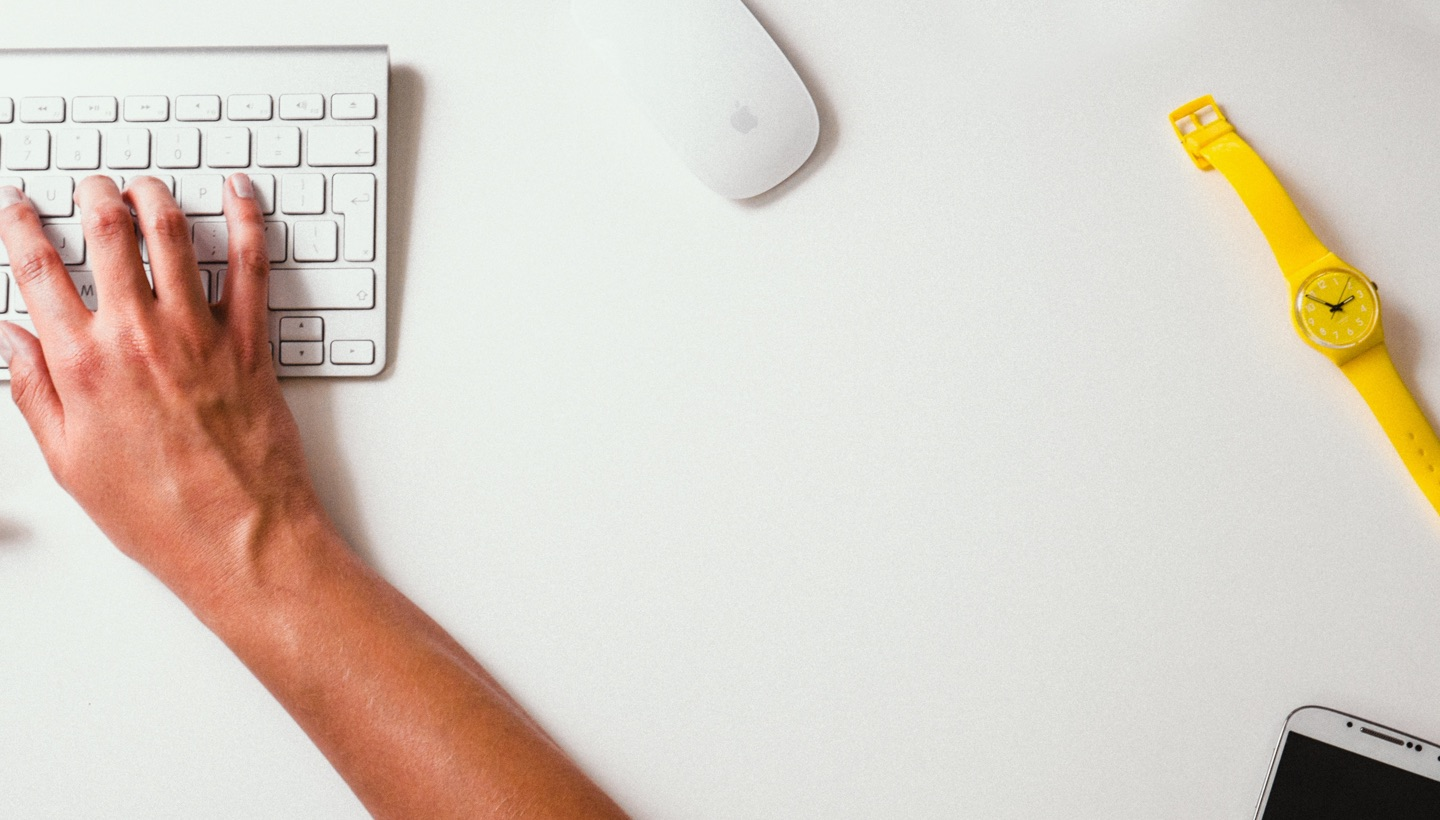
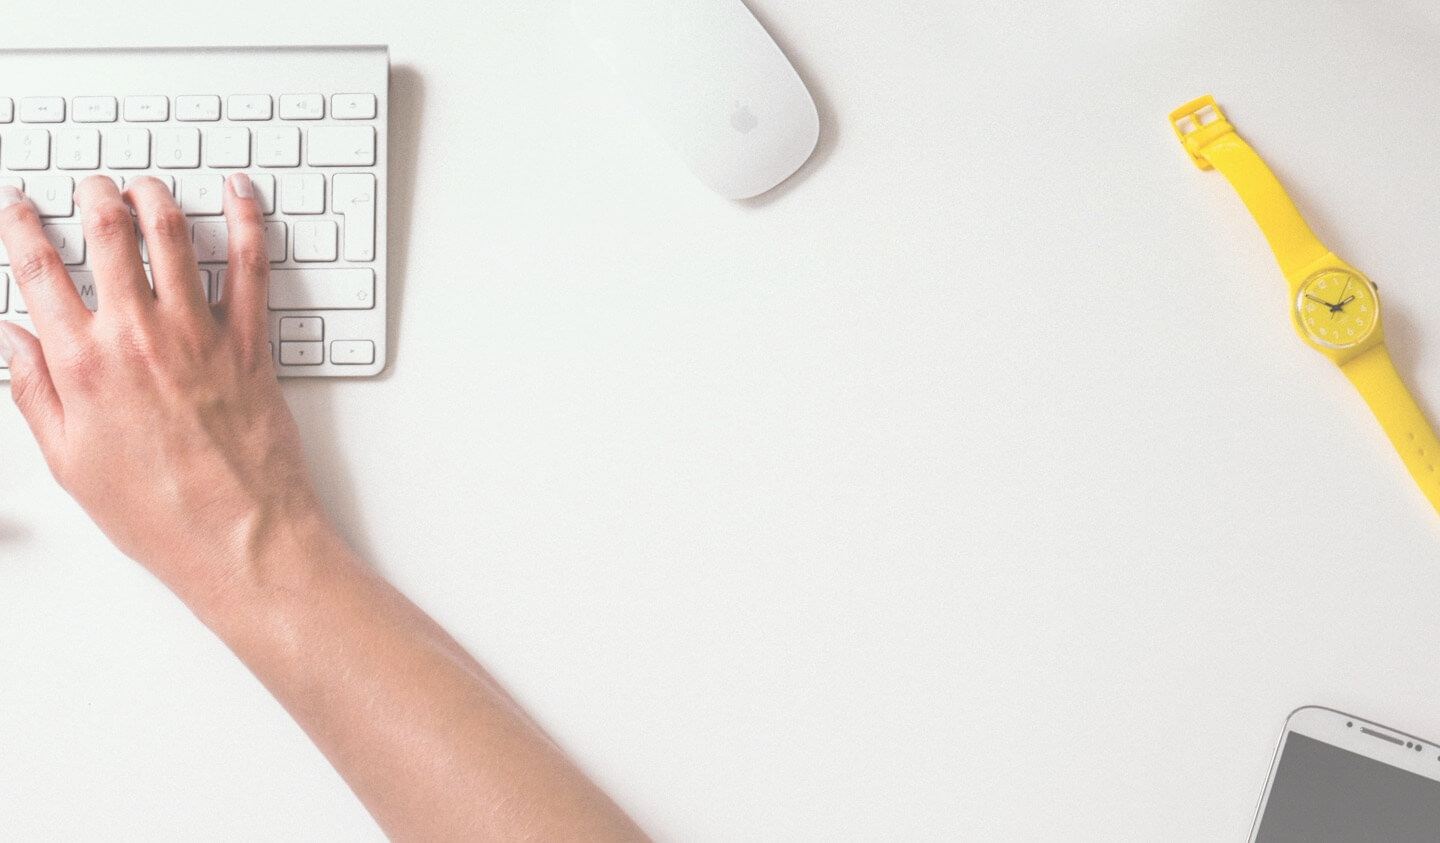
temp commit

diff --git a/src/index.html b/src/index.html
@@ -41,10 +41,11 @@
       <div class="overlay">
         <div class="container">
           <div class="cover">
-            <div class="cover-logo"><img class="cover-logo-img" src="img/logo.png" preload/></div>
-            <p class="cover-text">灵活可扩展的 HTML5 多场景应用模板</p>
+            <div class="cover-logo"><img class="cover-logo-img" src="img/elf.svg" preload/></div>
+            <p class="cover-text">灵活可扩展的 HTML5 </p>
+            <p class="cover-text">多场景应用模板</p>
             <div class="cover-btns">
-              <a class="cover-btn" href="https://o2team.github.io/elf">Github</a>
+              <a class="cover-btn" href="https://github.com/o2team/elf">Github</a>
             </div>
           </div>
         </div>
@@ -197,75 +198,100 @@
       <div class="container">
         <div class="section-title">模板</div>
         <div class="section-devider"></div>
-        <div class="example-item-list">
-          <a class="example-item" href="http://html5-base.aco.aotu.io" target="_blank">
-            <div class="example-item-win">
-              <img class="example-item-img" src="img/case-base.jpg" alt="" preload>
-              <img class="npm-version" src="https://img.shields.io/npm/v/elf-cli.svg?style=flat-square">
-              <div class="example-item-float">
-                <div class="example-item-qr qrcode"></div>
-                <p class="example-item-desc">该示例展示了最基本的项目结构，没有提供额外的功能，可以通过该示例了解整个项目的构建。</p>
-                <p class="example-item-command">
-                  <span>$</span> elf init
-                </p>
-                <p class="example-item-open">
-                  <img src="img/icons/window.svg" alt=""> 新窗口打开
-                </p>
-              </div>
+
+        <div class="example-btns">
+          <div class="example-btn-row">
+            <div class="example-btn">
+              <div class="example-btn-icon example-base"></div>
+              <div class="example-btn-name">基础模板</div>
             </div>
-            <p class="example-item-title">基础模板（base）</p>
-          </a>
-          <a class="example-item" href="http://html5-swiper.aco.aotu.io" target="_blank">
-            <div class="example-item-win">
-              <img class="example-item-img" src="img/case-swiper.jpg" alt="" preload>
-              <div class="example-item-float">
-                <div class="example-item-qr qrcode"></div>
-                <p class="example-item-desc">
-                滑屏示例，基于 swiper， 可基于该项目初始化实现滑动翻屏的项目。</p>
-                <p class="example-item-command">
-                  <span>$</span> elf init -t swiper
-                </p>
-                <p class="example-item-open">
-                  <img src="img/icons/window.svg" alt=""> 新窗口打开
-                </p>
-              </div>
+            <div class="example-btn">
+              <div class="example-btn-icon example-swiper"></div>
+              <div class="example-btn-name">滑屏模板</div>
             </div>
-            <p class="example-item-title">划屏模板（swiper）</p>
-          </a>
-          <a class="example-item" href="http://html5-switcher.aco.aotu.io" target="_blank">
-            <div class="example-item-win">
-            <img class="example-item-img" src="img/case-switcher.jpg" alt="" preload>
-              <div class="example-item-float">
-                <div class="example-item-qr qrcode"></div>
-                <p class="example-item-desc">
-                场景切换示例，基于 swiper 和 anime.js，可基于该项目初始化实现滑动场景切换的项目。</p>
-                <p class="example-item-command">
-                  <span>$</span> elf init -t switcher
-                </p>
-                <p class="example-item-open">
-                  <img src="img/icons/window.svg" alt=""> 新窗口打开
-                </p>
-              </div>
+          </div>
+          <div class="example-btn-row">
+            <div class="example-btn">
+              <div class="example-btn-icon example-switcher"></div>
+              <div class="example-btn-name">场景切换模板</div>
             </div>
-            <p class="example-item-title">场景切换模板（switcher）</p>
-          </a>
-          <a class="example-item" href="http://html5-panorama.aco.aotu.io" target="_blank">
-            <div class="example-item-win">
-            <img class="example-item-img" src="img/case-panorama.jpg" alt="" preload>
-              <div class="example-item-float">
-                <div class="example-item-qr qrcode"></div>
-                <p class="example-item-desc">
-                全景示例，基于 three.js 和 orientation.js，可基于该项目初始化实现重力感应配合全景的项目。</p>
-                <p class="example-item-command">
-                  <span>$</span> elf init -t panorama
-                </p>
-                <p class="example-item-open">
-                  <img src="img/icons/window.svg" alt=""> 新窗口打开
-                </p>
-              </div>
+            <div class="example-btn">
+              <div class="example-btn-icon example-panorama"></div>
+              <div class="example-btn-name">3D全景模板</div>
             </div>
-            <p class="example-item-title">3D全景模板（panorama）</p>
-          </a>
+          </div>
+        </div>
+        <div class="example-phone">
+          <div class="example-item-list">
+            <a class="example-item example-base" style="display: block;" href="http://html5-base.aco.aotu.io" target="_blank">
+              <div class="example-item-win">
+                <img class="example-item-img" src="img/case-base.jpg" alt="" preload>
+                <img class="npm-version" src="https://img.shields.io/npm/v/elf-cli.svg?style=flat-square">
+                <div class="example-item-float">
+                  <div class="example-item-qr qrcode"></div>
+                  <p class="example-item-desc">该示例展示了最基本的项目结构，没有提供额外的功能，可以通过该示例了解整个项目的构建。</p>
+                  <p class="example-item-command">
+                    <span>$</span> elf init
+                  </p>
+                  <p class="example-item-open">
+                    <img src="img/icons/window.svg" alt=""> 新窗口打开
+                  </p>
+                </div>
+              </div>
+              <p class="example-item-title">基础模板（base）</p>
+            </a>
+            <a class="example-item example-swiper" href="http://html5-swiper.aco.aotu.io" target="_blank">
+              <div class="example-item-win">
+                <img class="example-item-img" src="img/case-swiper.jpg" alt="" preload>
+                <div class="example-item-float">
+                  <div class="example-item-qr qrcode"></div>
+                  <p class="example-item-desc">
+                  滑屏示例，基于 swiper， 可基于该项目初始化实现滑动翻屏的项目。</p>
+                  <p class="example-item-command">
+                    <span>$</span> elf init -t swiper
+                  </p>
+                  <p class="example-item-open">
+                    <img src="img/icons/window.svg" alt=""> 新窗口打开
+                  </p>
+                </div>
+              </div>
+              <p class="example-item-title">划屏模板（swiper）</p>
+            </a>
+            <a class="example-item example-switcher" href="http://html5-switcher.aco.aotu.io" target="_blank">
+              <div class="example-item-win">
+              <img class="example-item-img" src="img/case-switcher.jpg" alt="" preload>
+                <div class="example-item-float">
+                  <div class="example-item-qr qrcode"></div>
+                  <p class="example-item-desc">
+                  场景切换示例，基于 swiper 和 anime.js，可基于该项目初始化实现滑动场景切换的项目。</p>
+                  <p class="example-item-command">
+                    <span>$</span> elf init -t switcher
+                  </p>
+                  <p class="example-item-open">
+                    <img src="img/icons/window.svg" alt=""> 新窗口打开
+                  </p>
+                </div>
+              </div>
+              <p class="example-item-title">场景切换模板（switcher）</p>
+            </a>
+            <a class="example-item example-panorama" href="http://html5-panorama.aco.aotu.io" target="_blank">
+              <div class="example-item-win">
+              <img class="example-item-img" src="img/case-panorama.jpg" alt="" preload>
+                <div class="example-item-float">
+                  <div class="example-item-qr qrcode"></div>
+                  <p class="example-item-desc">
+                  全景示例，基于 three.js 和 orientation.js，可基于该项目初始化实现重力感应配合全景的项目。</p>
+                  <p class="example-item-command">
+                    <span>$</span> elf init -t panorama
+                  </p>
+                  <p class="example-item-open">
+                    <img src="img/icons/window.svg" alt=""> 新窗口打开
+                  </p>
+                </div>
+              </div>
+              <p class="example-item-title">3D全景模板（panorama）</p>
+            </a>
+          </div>
         </div>
       </div>
     </section>

diff --git a/src/css/main.scss b/src/css/main.scss
@@ -243,16 +243,19 @@
     // background: linear-gradient(to bottom, rgba(0, 0, 0, .5) 0%, #000 100%)
   }
   .cover {
-    padding-top: 160px;
+    padding-top: 220px;
     text-align: center;
+    color: $blue;
+    opacity: .8;
 
     .cover-logo {
+      margin-bottom: 20px;
       .cover-logo-img {
         width: 120px;
       }
     }
     .cover-text {
-      margin-top: 20px;
+      margin: 10px 0;
       display: block;
       font-size: 44px;
       font-weight: 300;
@@ -265,13 +268,16 @@
         display: inline-block;
         box-sizing: border-box;
         text-decoration: none;
-        color: #8173BC;
         width: 120px;
         height: 45px;
-        border: 2px solid #8173BC;
+        border: 2px solid $blue;
         border-radius: 45px;
         font-size: 14px;
+        color: $blue;
 
+        &:visited {
+          color: $blue;
+        }
         &:hover {
           opacity: 0.8;
         }
@@ -481,7 +487,7 @@
  * Example Section
  */
 .example {
-  background-color: white;
+  background-color: $color-bg-gray;
 
   .example-item-list {
     @include clearfix;
